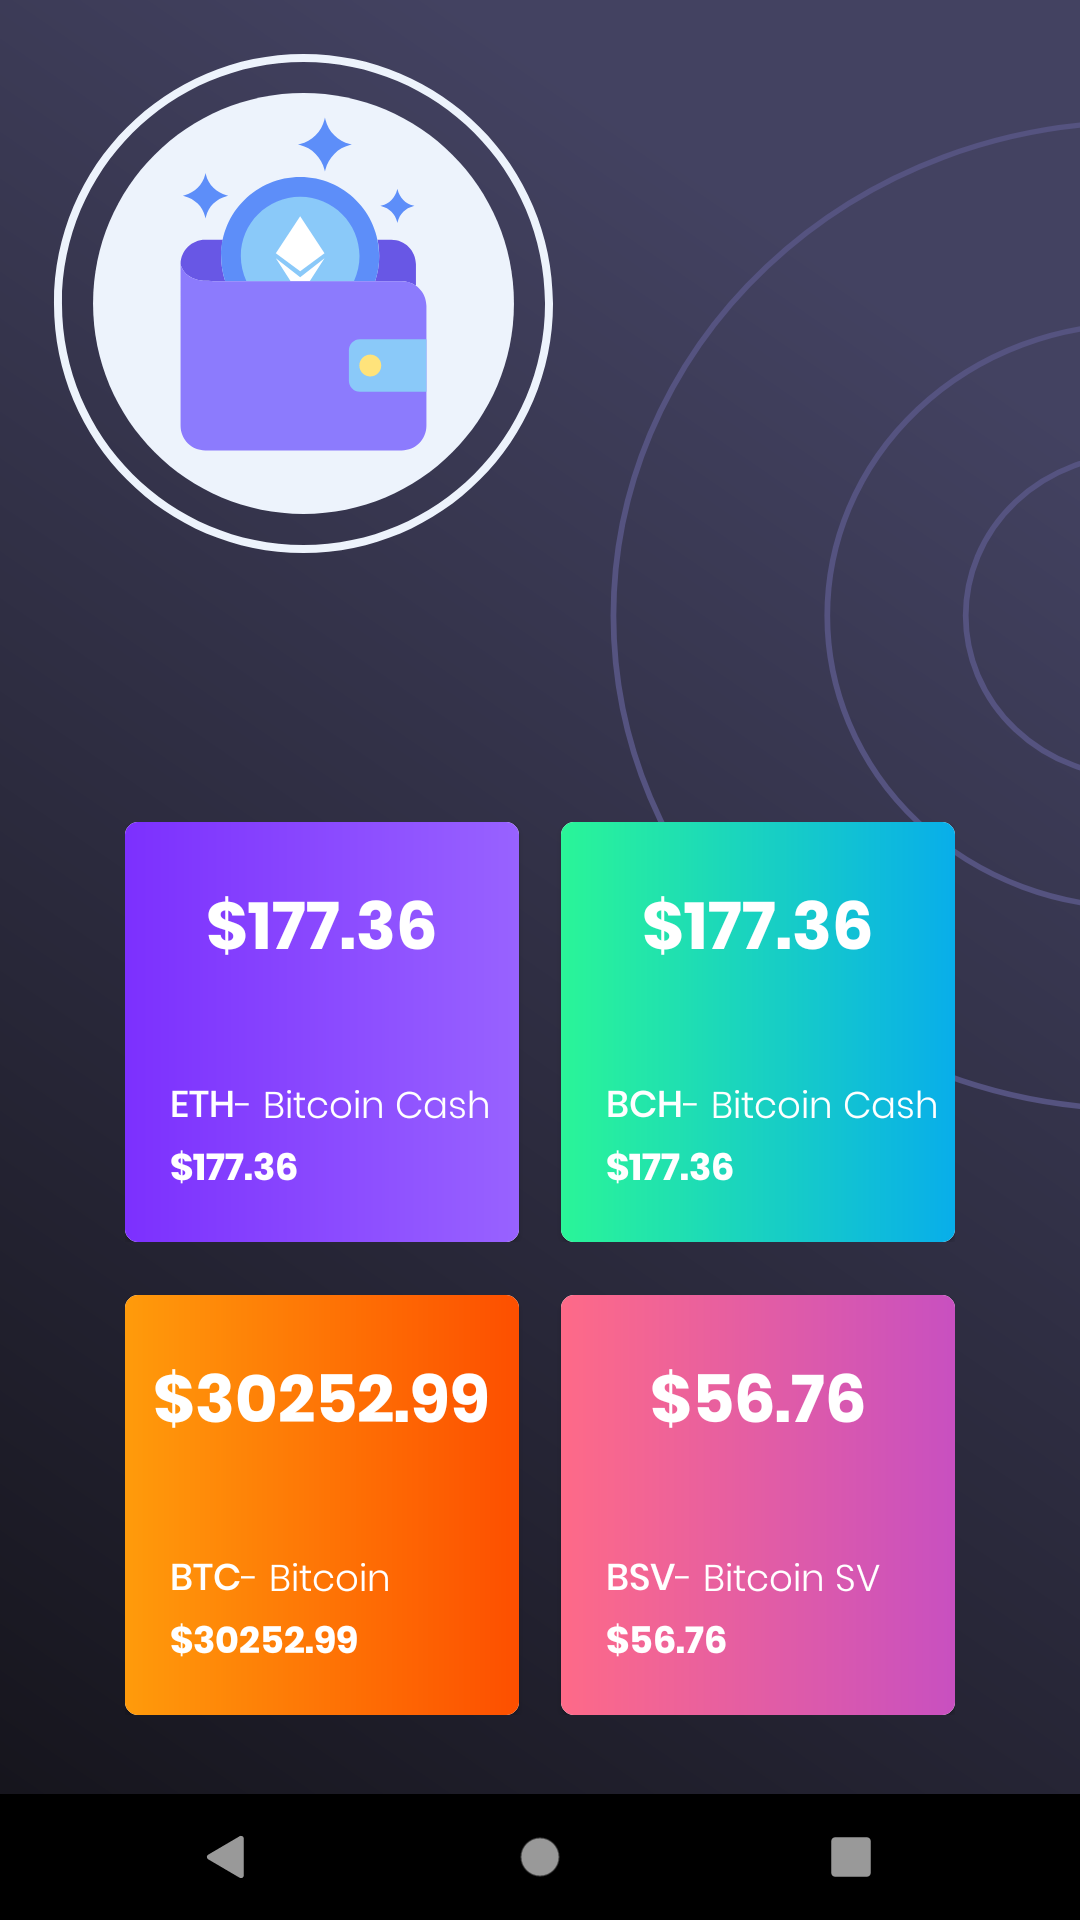
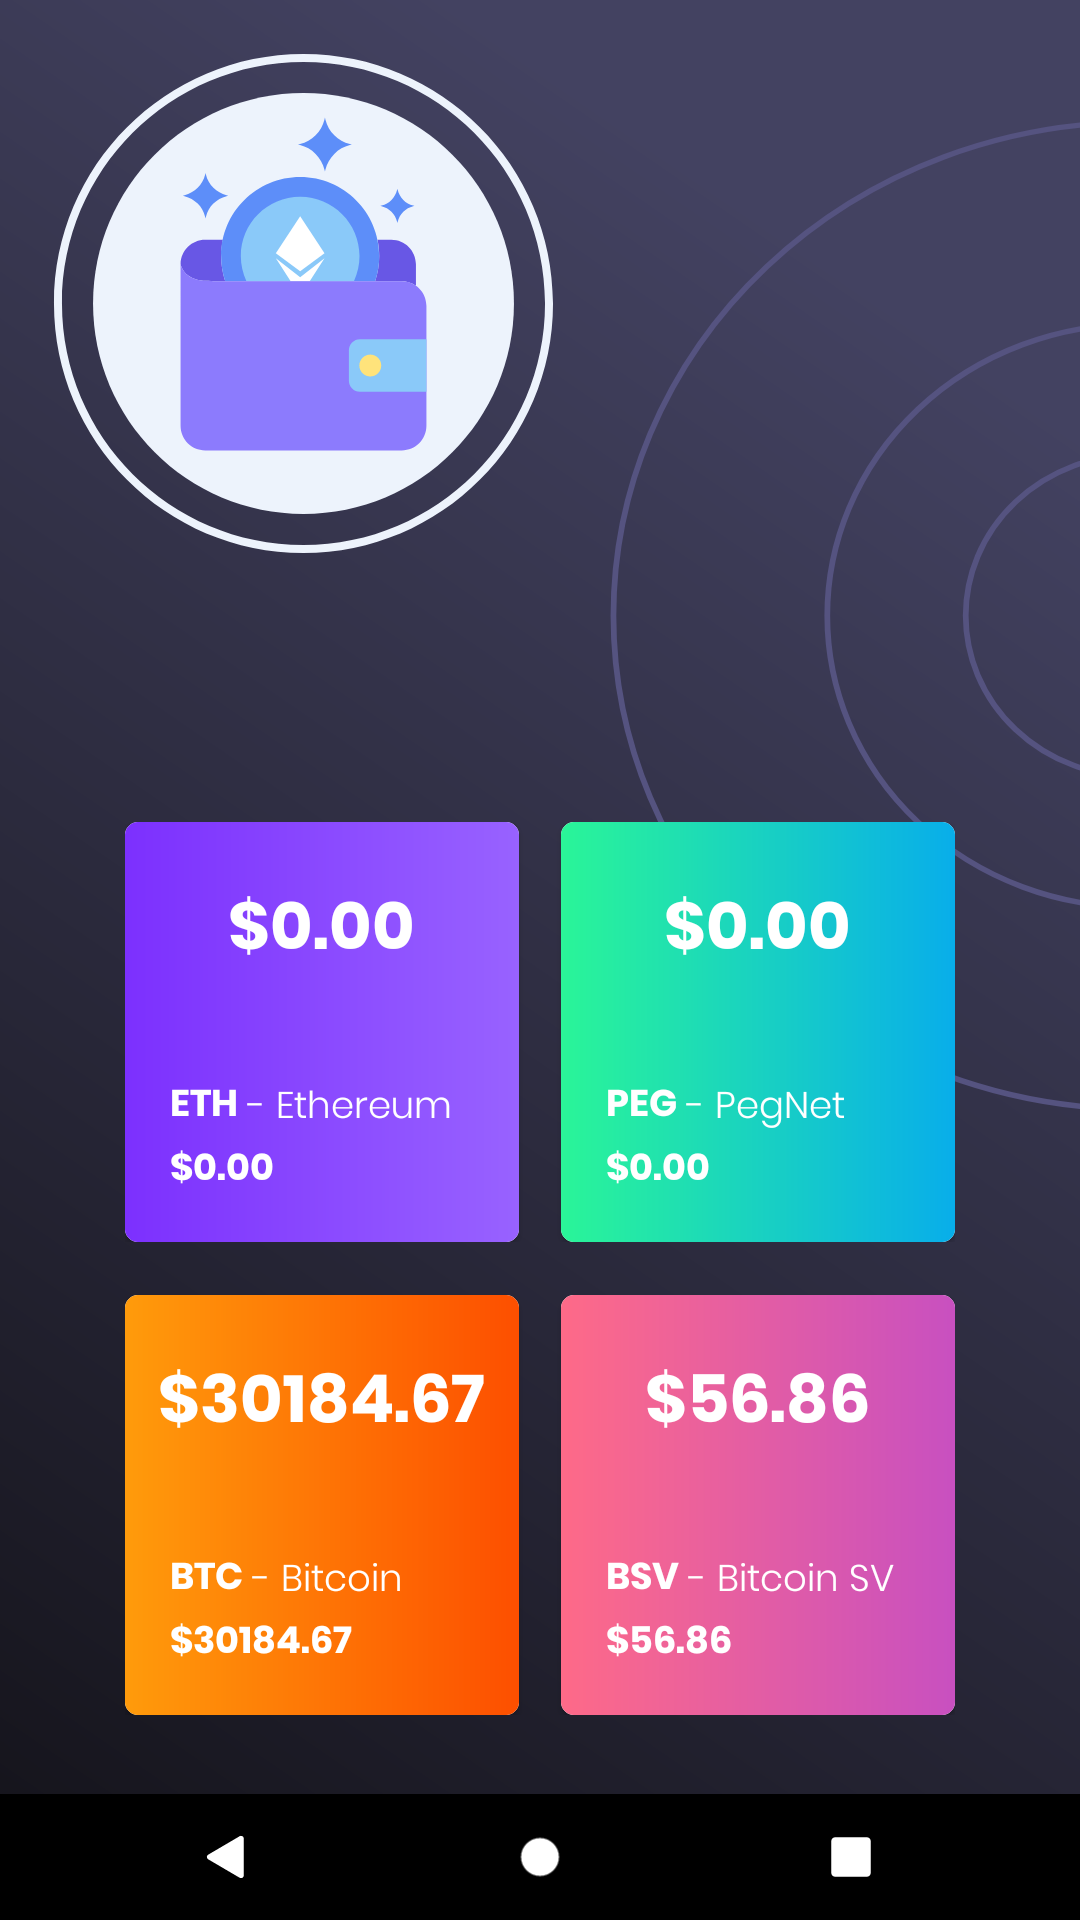
finished the project

diff --git a/app/src/main/java/com/dgpays/firebaseauthentication/view/MainActivity.java b/app/src/main/java/com/dgpays/firebaseauthentication/view/MainActivity.java
@@ -34,7 +34,7 @@ public class MainActivity extends AppCompatActivity {
     }
 
     void call() {
-        viewModel.call("BTC,BSV,BCH,ETH");
+        viewModel.call("BTC,BSV,PEG,ETH");
     }
 
     void setObserver() {
@@ -49,24 +49,24 @@ public class MainActivity extends AppCompatActivity {
         String price = "$" + String.format(Locale.ENGLISH, "%.2f", coins.get(0).getPrice());
         //TODO: buraya ekstra olarak kontrol eklenmeli
         binding.btccoin.setText(coins.get(0).getCoin());
-        binding.btccoinName.setText("- "+coins.get(0).getName());
+        binding.btccoinName.setText(" - "+coins.get(0).getName());
         binding.btcprice.setText(price);
         binding.btcpriceBottom.setText(price);
 
         binding.engcoin.setText(coins.get(1).getCoin());
-        binding.engcoinName.setText("- "+coins.get(1).getName());
+        binding.engcoinName.setText(" - "+coins.get(1).getName());
         price = "$" + String.format(Locale.ENGLISH, "%.2f", coins.get(1).getPrice());
         binding.engprice.setText(price);
         binding.engpriceBottom.setText(price);
 
         binding.tnbcoin.setText(coins.get(2).getCoin());
-        binding.tnbcoinName.setText("- "+coins.get(2).getName());
+        binding.tnbcoinName.setText(" - "+coins.get(2).getName());
         price = "$" + String.format(Locale.ENGLISH, "%.2f", coins.get(2).getPrice());
         binding.tnbprice.setText(price);
         binding.tnbpriceBottom.setText(price);
 
         binding.ethcoin.setText(coins.get(3).getCoin());
-        binding.ethcoinName.setText("- "+coins.get(2).getName());
+        binding.ethcoinName.setText(" - "+coins.get(3).getName());
         price = "$" + String.format(Locale.ENGLISH, "%.2f", coins.get(2).getPrice());
         binding.ethprice.setText(price);
         binding.ethpriceBottom.setText(price);

diff --git a/app/src/main/java/com/dgpays/firebaseauthentication/view/SplashScreen.java b/app/src/main/java/com/dgpays/firebaseauthentication/view/SplashScreen.java
@@ -26,7 +26,7 @@ public class SplashScreen extends AppCompatActivity {
 
         new Handler().postDelayed(() -> {
             if (mAuth.getCurrentUser() != null) {
-                startActivity(new Intent(SplashScreen.this, LoginActivity.class));
+                startActivity(new Intent(SplashScreen.this, MainActivity.class));
             } else
             {
                 startActivity(new Intent(SplashScreen.this, LoginActivity.class));
